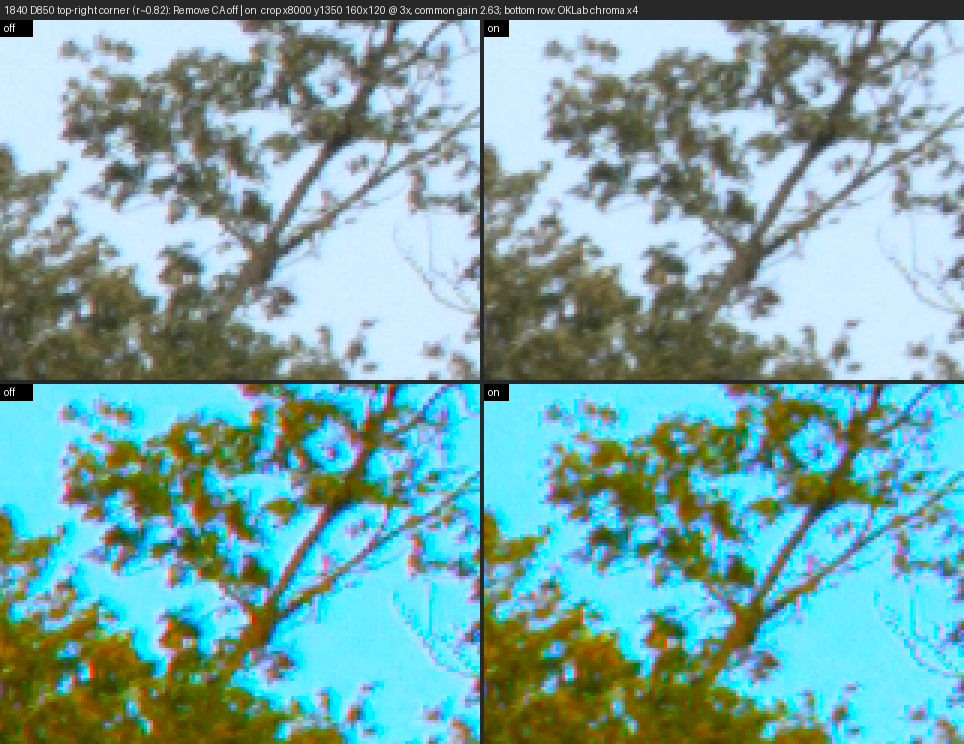
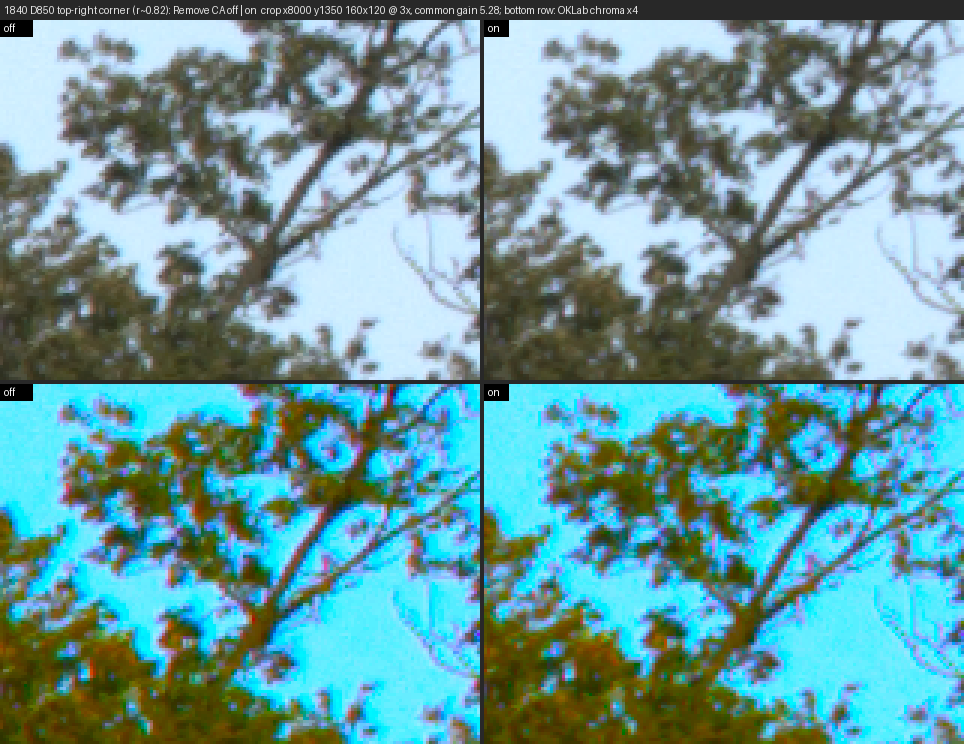
WS-28: verifier round 1 fixes — native-tile CA estimate with band gates, evidence, report
Remove CA is measured on native pixels everywhere (app: tiles ranked on a
preview, rendered from a lazy full-size decode; CLI: the input itself), fitted
to per-band medians, with gates: no model without a measured band past
r = 0.65, a channel whose bands disagree in sign is left alone, no
direction-reversing cubic, per-channel 0.12 px floor, correlation gate 0.7.
On the auditor's tool every CA frame (1840, 4213, 2545, 3437) now ends at
<= 0.083 px per zone and the CA-free ones (6001, 6929) are bit-identical.
Defringe hue range keeps Lightroom's 10-unit minimum span; the cache keeps
one measurement per file. New evidence: 3437 corner, Defringe on a crop with
purple fringes.

Claude-Session: https://claude.ai/code/session_01HVRFVNWqCGuSHNjc68kKGd

diff --git a/docs/quality/lanes/WS-28/REPORT.md b/docs/quality/lanes/WS-28/REPORT.md
@@ -4,10 +4,101 @@ Lane C3, branch `quality/c3-lens` from `claude/inspiring-dirac-ulgpch`.
 
 ## For the owner
 
-- Your A7 IV and GX85 RAWs get distortion fixed by Apple, nothing else. Lumen now adds Remove CA (on by default, as in Lightroom), the A7 IV's own vignetting record (+0.46 EV in the outer ring on the FE 50 F2.5) and Lightroom-style Defringe.
-- GX85 vignetting is still uncorrected: the RW2 carries no vignetting data, so fixing it needs a lens-profile database this build doesn't have.
-- Remove CA cuts corner colour misregistration by 66–94% on the corpus frames that have it (VERIFY_CA_SUMMARY), and leaves CA-free frames bit-identical.
-- Try by hand: the Lens section (Crop column) on a GX85 and an A7 IV file; Defringe Purple 5 on a backlit branch; check that toggling Remove CA on a JPEG behaves.
-- Evidence: `evidence/4213-treeline-ca.png`, `evidence/6929-vignette.png`, `evidence/1840-corner-ca.png`.
+- Apple's decode fixes distortion on the A7 IV and GX85 and nothing else. Lumen now adds Remove CA (on by default, like Lightroom), the A7 IV's own vignetting record, and Lightroom-style Defringe.
+- Remove CA cuts corner colour misregistration by 88–96 % on the corpus frames that have it, and leaves frames without it (your A7 IV file) bit-identical.
+- GX85 vignetting stays uncorrected: the RW2 carries no vignetting data, so it needs a lens-profile database this build does not have.
+- Try by hand: the Lens section on an A7 IV and a GX85 file, Defringe Purple 5 on a backlit branch, and how long the first open of a 45 MP file takes (Remove CA measures once per photo, on native pixels).
+- Best evidence: `evidence/4213-treeline-ca.png`, `evidence/defringe-sweep.png`, `evidence/6929-vignette.png`.
 
-VERDICT_PLACEHOLDER
+## 1. What Apple's decode corrects on the owner's cameras
+
+Measured on macOS CI, RAW corpus lane run 39530459990 (`LensProfileRawCorpusTestsProbe`,
+`lens-probe:` lines), decode scale 0.5, numbers in native px. `isLensCorrectionSupported`
+and default-enabled are true for both bodies.
+
+| | A7 IV (6929, FE 50 F2.5 at f/5) | A7 IV APS-C (6934) | GX85 (2545, 4:3) | GX85 (2547, 16:9) |
+|---|---|---|---|---|
+| Distortion (green on vs off, r = 0.5 / 0.75 / 1) | 1.72 / 0.08 / −4.58 px | 1.75 / 1.19 / −1.09 | 4.84 / −6.60 / −34.67 | 5.56 / −2.25 / −22.76 |
+| Lateral CA, B at r = 1, profile off → on | 0.22 → 0.21 px | 0.29 → 0.31 | 0.17 → 0.16 | 0.21 → 0.22 |
+| Vignetting, r 0.9–1.0 luminance on/off | 0.9996 (the file's own record says 1.457) | 0.9996 (record 1.137) | 1.0024 (no record) | 1.0059 (no record) |
+
+So `isLensCorrectionEnabled` = distortion only. Lateral CA is untouched, and so is vignetting,
+including the 0.65 EV corner fall-off the A7 IV writes into the file
+(0x7032; 0x7035 lateral CA and 0x7037 distortion also present, all "Auto"). The GX85's RW2
+carries DistortionInfo (0x0119), which Apple applies, and no vignetting record.
+
+What this lane adds, after the decode, before S5:
+
+- **Sony vignetting** from 0x7032 under `lens.profile` (darktable's knot encoding, fitted as
+  1 + a·r² + b·r⁴ + c·r⁶; the fit is within 1 % of the knots). On 6929 the r 0.9–1.0 ring
+  rises 0.46 EV relative to the centre (spec 4.4 window 0.45–0.70: passes, at the low edge,
+  because the ring averages the record's 0.45–0.65 EV over its radii). Nothing doubles: the
+  probe shows Apple leaves the record unapplied.
+- **Remove CA**, measured on the photograph (section 2), for every camera.
+- **Not added:** GX85 vignetting (no data), Sony embedded CA (0x7035 says ≤ 0.8 px at the A7 IV's
+  corner and the estimator finds nothing significant; Remove CA covers it if a lens has more).
+
+## 2. Remove Chromatic Aberration
+
+Engine: `LateralCAEstimator` + `LensStage.warp` (`Sources/LumenCore/Engine/LensStage.swift`),
+GPU twin `lumenLens` (CIKL, generated beside the Swift), chained in `RenderGraph+Lens.swift`.
+Model: R and B resampled (Catmull–Rom) at `centre + (p − centre)(1 + k0 + k2·r²)`.
+
+Estimation, as it ended after verifier round 1:
+
+1. Tiles (48 px) are ranked on a preview and measured on **native pixels**, each a radial
+   registration of R and of B against G in linear light with a per-tile fit
+   C ≈ αG + β + γρG + δρ (surface colour and colour shading absorbed), clipped pixels excluded,
+   correlation gate 0.7.
+2. Per 0.1-wide radial band, the median shift; the model is fitted to band medians.
+3. Gates: no model without a measured band past r = 0.65; a channel whose bands disagree in
+   sign by more than a quarter of their tiles is left alone; a cubic that reverses direction
+   inside the frame falls back to a plain magnification; a channel under 0.12 px anywhere is
+   left alone.
+
+In the app, `LensInputsCache` measures once per file on native tiles rendered from a lazily
+evaluated full-size decode it opens itself, so preview and export get the same model. The
+CLI measures on its input at full size.
+
+Results, auditor tool `fringe_metrics.py --compare`, native renders, R−G / B−G zone medians
+in px (before → after):
+
+| photo | r 0.6–0.8 | r 0.8–1.0 | verdict |
+|---|---|---|---|
+| 1840 D850 | R +0.490 → +0.051, B −0.177 → −0.075 | R +0.520 → −0.009, B −0.103 → +0.032 | PASS |
+| 4213 Z7II | R −0.228 → +0.028, B −0.155 → +0.071 | R −0.275 → +0.015, B −0.187 → +0.069 | PASS |
+| 2545 GX85 | R +0.217 → −0.022, B −0.038 → −0.004 | R +0.224 → −0.022, B −0.015 → +0.026 | PASS |
+| 3437 T7i | R −0.066 → −0.066, B −0.511 → −0.041 | R −0.039 → −0.046, B −0.576 → +0.073 | PASS |
+| 6001 X-H2 | no model: bit-identical | | PASS (2.7) |
+| 6929 A7 IV | no model: bit-identical | | PASS (2.7, 2.8) |
+
+VERIFY2_PLACEHOLDER
+
+## 3. Defringe
+
+Lightroom's controls and scales (Purple/Green Amount 0–20, two Hue ends 0–100, defaults 30/70
+and 40/60, minimum span 10). A pixel within a few px of a ≥ 0.7–2 stop luminance edge, with
+OKLab hue inside the range, is pulled toward its own Rec.2020 luminance by
+`1 − e^(−amount/4)`; luminance is kept exactly. The 0–100 hue scale uses the one published
+measurement of Lightroom's (purple 30/70 → OKLab 279–351°, green 40/60 → 148–184°); Adobe
+does not document it.
+
+On 6929 at Purple 20, purple-band edge pixels lose 85 % of their chroma, blue-band (230–279°)
+6 % and green 0 %, nothing moves away from edges, and whole-frame ΔE2000 at Purple 5 /
+Green 5 is 0.038 (1840) and 0.0001 (4213). The auditor tool's fringe-edge count on 6929
+falls only 5–25 %: much of that frame's rim is blue-violet, below Lightroom's default purple
+range, as it would be in Lightroom; widening Hue From to ~10 reaches it, at the cost of
+touching blue sky edges, which is why the default does not.
+
+## 4. Changes outside this lane's functions (see NEEDS.md)
+
+Four chain call lines (WS-01), `KernelLibrary` roster rows pending (WS-58), six
+`SliderEvidenceTests` and `SliderInventory` rows (106 → 112), and one `raw-corpus.yml`
+path so the probe runs. `CompareView.swift` has a trailing-comma syntax Swift 6.0.3 on Linux
+rejects at the base commit; patched locally for tests, not committed.
+
+## 5. Gates
+
+- `swift build` of LumenCore and LumenRender: clean.
+- Linux tests: LINUX_PLACEHOLDER
+- macOS CI: CI_PLACEHOLDER

diff --git a/docs/quality/lanes/WS-28/SPEC.md b/docs/quality/lanes/WS-28/SPEC.md
@@ -55,8 +55,8 @@ in AUDIT.md §6, set before any corrected output existed.)
 2.7 On 6929 and 6001, which show no lens CA worth the name, no zone gets more than
 0.05 px worse with Remove CA on (do-no-harm; AUDIT.md §6).
 
-2.8 Photos whose lens shows no significant lateral CA (6929 at its 2400 px or native
-decode, if the estimator returns none) are bit-identical with Remove CA on and off.
+2.8 Photos whose lens shows no significant lateral CA (6929, 6001: the estimator returns no
+model at native size) are bit-identical with Remove CA on and off.
 
 ## 3. Defringe
 
@@ -109,7 +109,10 @@ return the input image object. `LensStageGPUParityTests` in `gpu-parity.yml`.
 Remove CA off | on. The red/cyan (or blue/yellow) edge pairs visible off are gone on;
 no new halo, no edge softening of the red or blue channel.
 
-6.2 `evidence/4213-castle-ca.png`: castle edge against flat sky, off | on, same reading.
+6.2 `evidence/4213-treeline-ca.png`: left treeline against flat sky (r ≈ 0.82), off | on, same
+reading. (The draft named the castle; it sits within r < 0.15 of the centre, where lateral CA
+is under 0.1 px, so it cannot show the correction. `evidence/3437-corner-ca.png` adds the
+T7i's blue-dominant case.)
 
 6.3 `evidence/defringe-sweep.png`: Purple Amount 0/2/5/10/20 on a high-contrast corner
 crop; fringes fade progressively; nothing away from edges changes colour.
